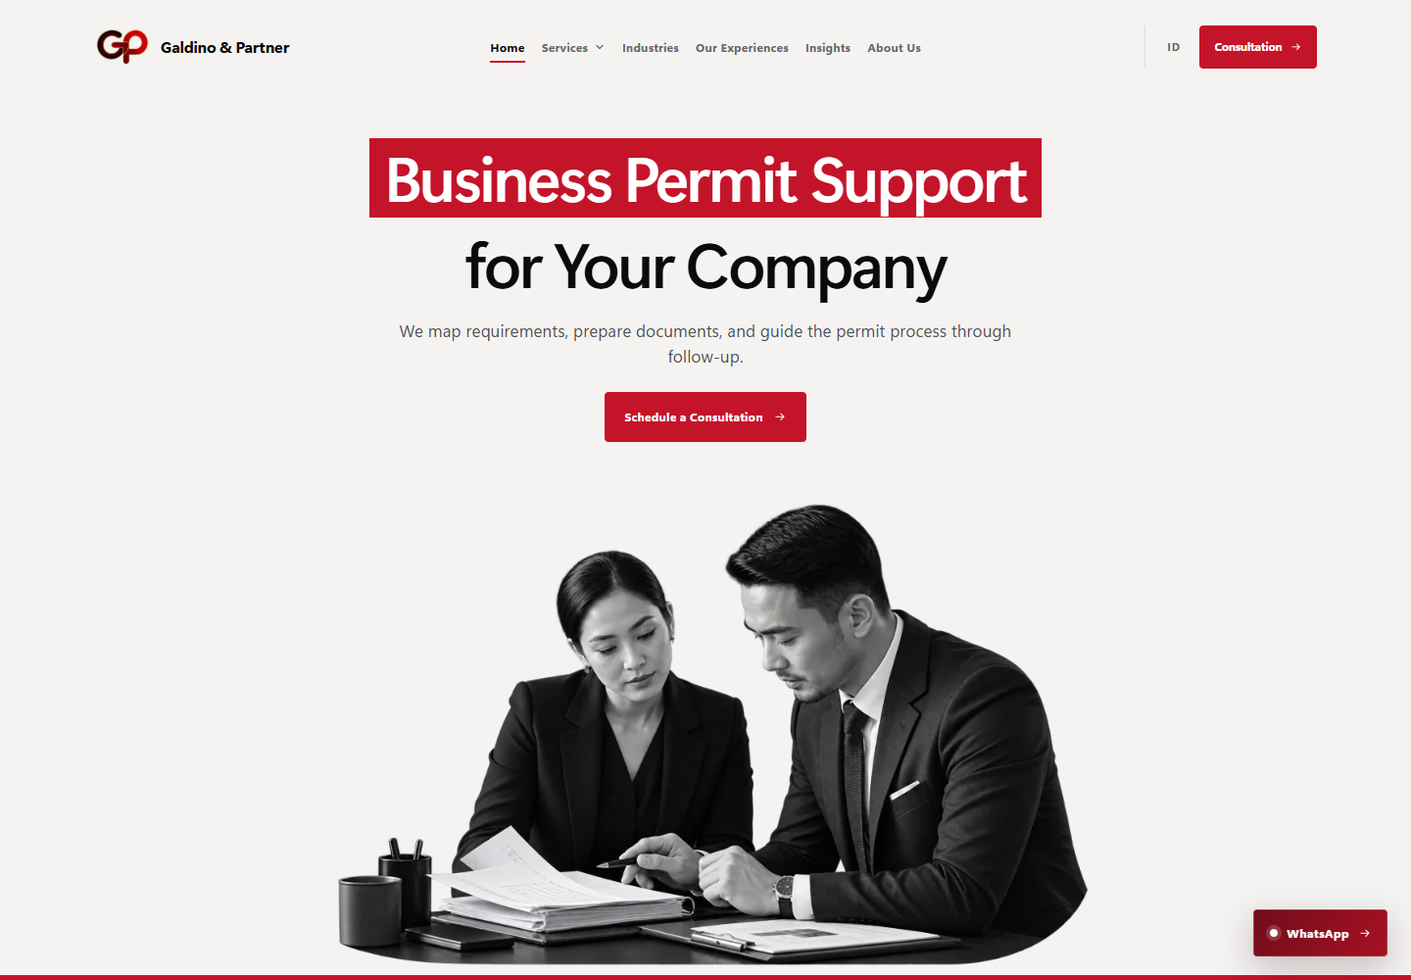
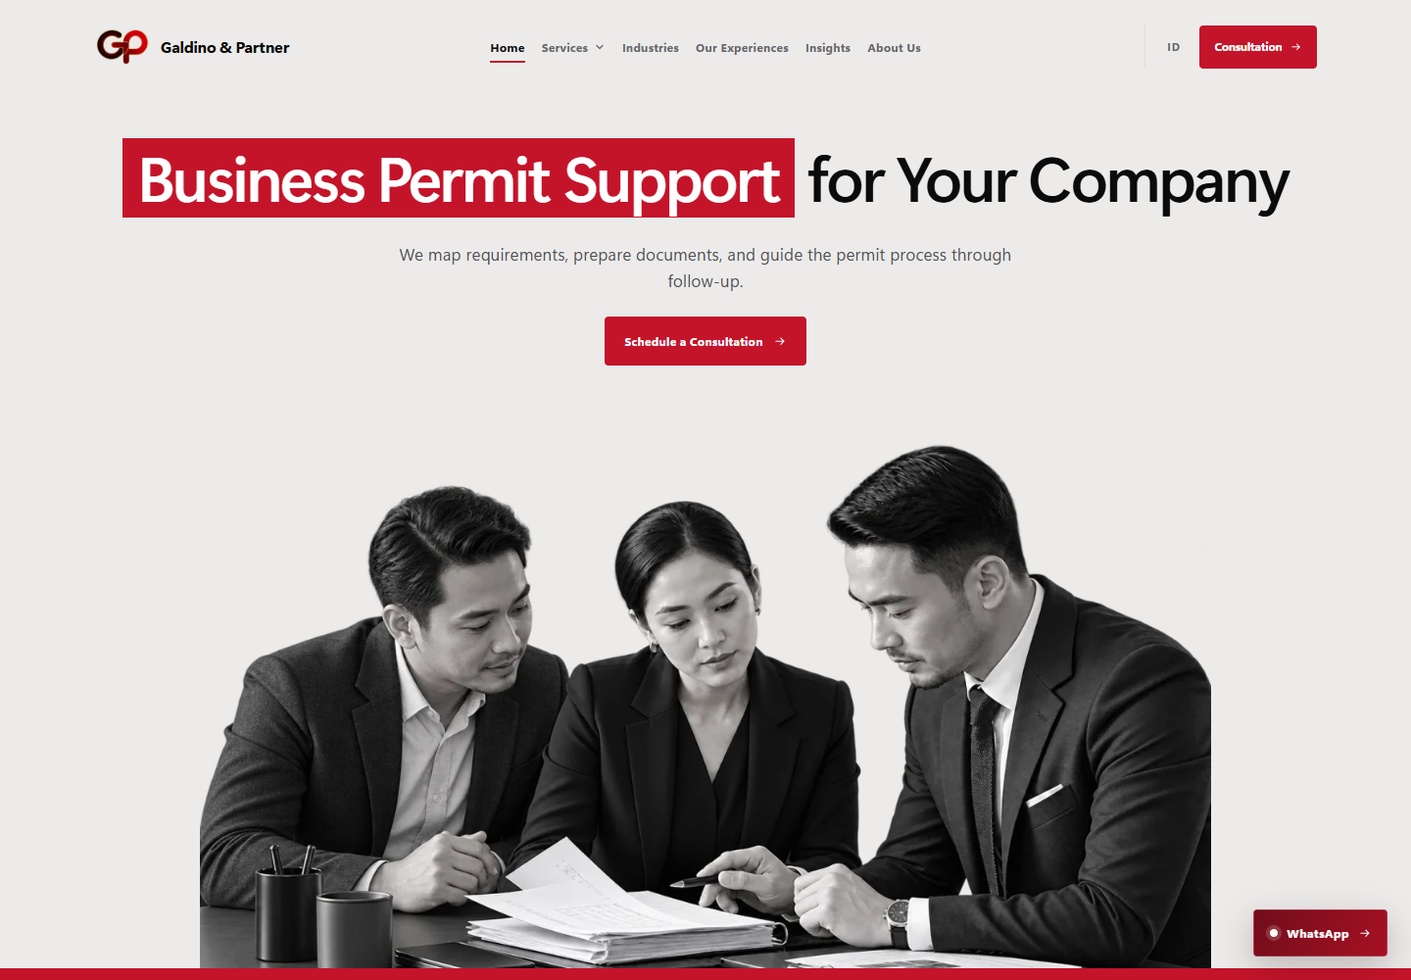
Refine Home hero with three-person consultation and unified surface

diff --git a/outputs/galdino_partner/website/scripts/browser/site.spec.ts b/outputs/galdino_partner/website/scripts/browser/site.spec.ts
@@ -184,7 +184,8 @@ test('brand headings, image framing, navigation and featured sections stay consi
   const hero=page.locator('.home-hero,.profile-hero,.image-hero');expect((await hero.boundingBox())!.height).toBeGreaterThanOrEqual(route==='profile/'?815:999);
   const heroImg=hero.locator('img').first();expect(await heroImg.evaluate(el=>getComputedStyle(el).objectFit)).toBe(route===''?'contain':'cover');const unfilled=await page.locator('.case-photo img,.related-cases img,.ed-figure img,.company-gallery__slide img,.work-collage img').evaluateAll(images=>images.filter(img=>getComputedStyle(img).objectFit!=='cover').length);expect(unfilled).toBe(0);
   const menu=await page.locator('.nav-menu').boundingBox();expect(Math.abs(menu!.x+menu!.width/2-720)).toBeLessThan(2);await expect(page.locator('.nav-cta')).toHaveCSS('border-top-left-radius','4px');
-  if(route===''){await expect(hero).toHaveCSS('background-color','rgb(244, 243, 241)');await expect(page.locator('.home-hero__copy')).toHaveCSS('text-align','center');await expect(page.locator('.home-hero__actions a')).toHaveCount(1);await expect(page.locator('.home-hero__actions a')).toHaveAttribute('href','/'+locale+'/contact/');await expect(heroImg).toHaveAttribute('src',/home-licensing-duo-cutout/);await expect(hero.locator('img')).toHaveCount(1);await expect(page.locator('.home-hero__highlight')).toHaveCSS('color','rgb(255, 255, 255)');await expect(page.locator('.home-hero__highlight')).toHaveCSS('background-color','rgb(196, 20, 42)');await expect(hero).toHaveCSS('border-bottom-color','rgb(196, 20, 42)');await expect(page.locator('.site-header')).toHaveCSS('position','fixed');await expect(page.locator('.site-header')).toHaveCSS('border-bottom-color','rgba(0, 0, 0, 0)');expect((await hero.boundingBox())!.y).toBe(0);await expect(page.locator('.client-register')).toHaveCount(0);await expect(page.locator('.site-header')).not.toHaveClass(/site-header--immersive/);}
+  if(route===''){await expect(hero).toHaveCSS('background-color','rgb(236, 235, 234)');await expect(page.locator('.home-hero__copy')).toHaveCSS('text-align','center');await expect(page.locator('.home-hero__actions a')).toHaveCount(1);await expect(page.locator('.home-hero__actions a')).toHaveAttribute('href','/'+locale+'/contact/');await expect(heroImg).toHaveAttribute('src',/home-licensing-trio-cutout/);await expect(hero.locator('img')).toHaveCount(1);await expect(page.locator('.home-hero__highlight')).toHaveCSS('color','rgb(255, 255, 255)');await expect(page.locator('.home-hero__highlight')).toHaveCSS('background-color','rgb(196, 20, 42)');await expect(hero).toHaveCSS('border-bottom-color','rgb(196, 20, 42)');await expect(page.locator('.site-header')).toHaveCSS('position','fixed');await expect(page.locator('.site-header')).toHaveCSS('border-bottom-color','rgba(0, 0, 0, 0)');expect((await hero.boundingBox())!.y).toBe(0);await expect(page.locator('.client-register')).toHaveCount(0);await expect(page.locator('.site-header')).not.toHaveClass(/site-header--immersive/);}
+  if(route===''){const start=await page.locator('.home-hero__highlight').boundingBox(),end=await page.locator('.home-hero__title-end').boundingBox(),frame=await page.locator('.home-hero__visual').boundingBox(),heroBox=await hero.boundingBox();expect(Math.abs(start!.y+start!.height/2-end!.y-end!.height/2)).toBeLessThan(4);expect(Math.abs(frame!.y+frame!.height-heroBox!.y-heroBox!.height+12)).toBeLessThan(1);await expect(page.locator('.site-header')).toHaveCSS('background-color','rgb(236, 235, 234)');await expect(page.locator('.company-section')).toHaveCSS('background-color','rgb(236, 235, 234)');}
   if(route===''){await hero.locator('img').evaluateAll(async(images:HTMLImageElement[])=>Promise.all(images.map(img=>img.decode())));await page.screenshot({path:testInfo.outputPath(locale+'-home-hero-1440.png'),animations:'disabled'});}
   if(!['','profile/'].includes(route)){await expect(heroImg).toHaveAttribute('src',/hero-/);expect(await heroImg.evaluate(el=>getComputedStyle(el).objectPosition)).toBe('50% 50%');}
   headings.push(await page.locator('h1').evaluate(el=>{const c=getComputedStyle(el);return [c.fontFamily,c.fontSize,c.fontWeight,c.letterSpacing,c.lineHeight].join('|')}));

diff --git a/outputs/galdino_partner/website/docs/QA_REPORT.md b/outputs/galdino_partner/website/docs/QA_REPORT.md
@@ -12,25 +12,25 @@ Home hero revision verified 2 October 2026; complete browser baseline verified 1
 - Complete browser baseline (1 October): 40 passed, 0 failed, 0 flaky. Responsive checks covered 17 representative routes at widths 320, 375, 430, 768, 900, 1024, 1280, 1440 and 1920 pixels (153 route/viewport checks), without horizontal overflow or uncaught page errors.
 - Axe scanned 13 representative pages and reported no WCAG 2 A/AA or 2.1 A/AA violations.
 - Browser checks cover mobile navigation and mega menu, bilingual navigation, the hidden Services search, service links and images, experience filters, contact form states, consent, analytics gating, noindex, redirects, and selected desktop/mobile hero assets.
-- Current Home regression review (2 October): 10 passed, 0 failed. It covers 17 representative routes at 320/375/430/768/1024/1440px, Home accessibility, mobile/language navigation, mega-menu keyboard/outside-click behavior and shared brand typography. Hero screenshots cover both languages at 1440px and 375px. Astro check, 20 unit tests, production build and validation passed again.
+- Current Home regression review (2 October): 10 passed, 0 failed. It covers 17 representative routes at 320/375/430/768/1024/1440px, Home accessibility, mobile/language navigation, mega-menu keyboard/outside-click behavior and shared brand typography. Hero screenshots cover both languages at 1440px and 375px. Astro check, 20 unit tests, production build and validation passed again. After adding the 800px image variant, these checks and the shared-brand browser test passed once more; the four final-build Home screenshots were refreshed.
 - Contact form tests use a local in-memory SMTP sink and do not send real email.
 
-The complete browser baseline is in reports/browser-summary.json; the current focused Home review is in reports/home-duo-review.json. Validated route totals are in reports/validation.json. Current 375px/1440px screenshots are in reports/screenshots/.
+The complete browser baseline is in reports/browser-summary.json; the current focused Home review is in reports/home-trio-review.json. Validated route totals are in reports/validation.json. Current 375px/1440px screenshots are in reports/screenshots/.
 
 ## Lighthouse
 
-Current run on 2 October 2026: Lighthouse 13.5.0, default mobile simulation, consent banner present. These scores are a single local run and can vary with system load.
+Current run on 2 October 2026: Lighthouse 13.5.0, default mobile simulation, consent banner present. Home was audited again after adding the 800px responsive image variant; Services and Contact use the same-session audit. Scores can vary with system load.
 
 | Page | Performance | Accessibility | Best practices | SEO | LCP | CLS | TBT |
 | --- | ---: | ---: | ---: | ---: | ---: | ---: | ---: |
-| Home | 74 | 100 | 100 | 69 | 3.91 s | 0 | 263.5 ms |
-| Services | 91 | 100 | 100 | 69 | 2.75 s | 0 | 17.5 ms |
-| Contact | 95 | 100 | 100 | 66 | 2.39 s | 0 | 84.0 ms |
+| Home | 83 | 100 | 100 | 69 | 3.37 s | 0 | 61.0 ms |
+| Services | 94 | 100 | 100 | 69 | 2.55 s | 0 | 25.0 ms |
+| Contact | 96 | 100 | 100 | 66 | 2.27 s | 0 | 27.0 ms |
 
-Home remains below the project's 90-point performance target in this local run. Its extracted hero image is eager, high priority and discoverable in the initial document; the diagnostic identifies remaining render delay and main-thread style/layout work. There is no layout shift. Broader page performance work is not included in this focused banner revision. See reports/performance.json for diagnostics. Crawling remains blocked and pages use noindex,nofollow, which reduces SEO scores. Do not enable indexing to change those scores.
+Home scores 83 and remains below the project's 90-point performance target in the final local run. An initial run scored 54 with 3338.5ms TBT; the final run measured 61ms TBT and 3.37s LCP. This variance does not establish that the image change caused the entire score increase. The hero is eager, high priority and discoverable in the initial document; the final audit no longer fails the image-delivery insight, while remaining style/layout work and rendering delay require broader performance work. There is no layout shift. Broader page performance work is not included in this focused banner revision. See reports/performance.json for diagnostics. Crawling remains blocked and pages use noindex,nofollow, which reduces SEO scores. Do not enable indexing to change those scores.
 
 ## Visual review and launch
 
-Home now uses a light brand-paper hero with centered existing copy, a red title box with white text, one consultation CTA and the original two-person working scene extracted as a monochrome transparent foreground. A full-width red rule closes the hero; the former client-logo row remains omitted. About Us retains its original hero layout. Desktop navbars balance logo left, links centered and language/consultation actions right; mobile menu behavior is retained. The fixed light Home navbar shares the hero surface without a border. All button CTAs share a 4px corner radius. Services, Industries, Our Experiences and Insight retain distinct wide hero photographs. The five supplied mockup photographs are cleaned of embedded UI and used on their matching main pages, including Our Experiences on mobile. Contact has no banner and uses context left, form right. All photographs are centered and fill their fixed frames; logos retain their intrinsic proportions. Services restore smaller centered cover photos with red left/bottom accents, without numbers or captions; Home case photography restores cover framing. Industry cards use centered cover framing and red accents. Other main index heroes keep their dash/tag, benefit headline, lead and consultation button; breadcrumb strips are removed. Category hubs use two complete cards per row with a short description and provisional price and specific dark process maps with initial-record guidance. FAQ disclosure and interactive links have minimal motion with reduced-motion support. Contact restores six next-step explanations in the left column and keeps the main navbar above the inquiry section; the navbar has no separate Contact item. Home's dark section presents “Why Galdino & Partner,” and Industries uses the same dark background for its regulatory map. The old How We Work URLs redirect to the updated Home section. Category, service and industry detail heroes have white backgrounds, dark copy left, bordered photography right and a section CTA. Sector detail pages remove cases, insights and the duplicate sequence section. About Us retains its restored story and related cases, removes the company identity register, and uses a smaller founder note, four working principles and eight monochrome photographs in an overlapping CSS collage with black negative space and translucent red accents; mobile uses its own taller composition. Individual professional profiles have no banner, start closer to the navbar, and omit related services/insights. Specific services show dashed timing/fee labels immediately after the context explanation, with the fee-exclusions note inside the same section. Content lists show dot bullets. Articles follow the Kultivate editorial structure without reading durations.
+Home now uses the following company section's #ecebea gray-cream surface with centered existing copy, a red title box with white text, one consultation CTA and a monochrome transparent scene with three consultation participants. The headline is one line on desktop and two on mobile. A full-width red rule crops the lower table directly, preserving faces and hands; the former client-logo row remains omitted. About Us retains its original hero layout. Desktop navbars balance logo left, links centered and language/consultation actions right; mobile menu behavior is retained. The fixed light Home navbar shares the same #ecebea surface without a border. All button CTAs share a 4px corner radius. Services, Industries, Our Experiences and Insight retain distinct wide hero photographs. The five supplied mockup photographs are cleaned of embedded UI and used on their matching main pages, including Our Experiences on mobile. Contact has no banner and uses context left, form right. All photographs are centered and fill their fixed frames; logos retain their intrinsic proportions. Services restore smaller centered cover photos with red left/bottom accents, without numbers or captions; Home case photography restores cover framing. Industry cards use centered cover framing and red accents. Other main index heroes keep their dash/tag, benefit headline, lead and consultation button; breadcrumb strips are removed. Category hubs use two complete cards per row with a short description and provisional price and specific dark process maps with initial-record guidance. FAQ disclosure and interactive links have minimal motion with reduced-motion support. Contact restores six next-step explanations in the left column and keeps the main navbar above the inquiry section; the navbar has no separate Contact item. Home's dark section presents “Why Galdino & Partner,” and Industries uses the same dark background for its regulatory map. The old How We Work URLs redirect to the updated Home section. Category, service and industry detail heroes have white backgrounds, dark copy left, bordered photography right and a section CTA. Sector detail pages remove cases, insights and the duplicate sequence section. About Us retains its restored story and related cases, removes the company identity register, and uses a smaller founder note, four working principles and eight monochrome photographs in an overlapping CSS collage with black negative space and translucent red accents; mobile uses its own taller composition. Individual professional profiles have no banner, start closer to the navbar, and omit related services/insights. Specific services show dashed timing/fee labels immediately after the context explanation, with the fee-exclusions note inside the same section. Content lists show dot bullets. Articles follow the Kultivate editorial structure without reading durations.
 
 Hostinger access and a GTM ID are not yet available, as confirmed by the user. Production hosting, real SMTP receipt, live analytics and Search Console checks remain unverified. Prices and content remain provisional; indexing stays disabled. Broader unused-file cleanup is listed in docs/CLEANUP_REVIEW.md and was not included in deleting the specifically requested How We Work page.

diff --git a/outputs/galdino_partner/website/docs/REVISION_2026-10-02-HOME-TRIO.md b/outputs/galdino_partner/website/docs/REVISION_2026-10-02-HOME-TRIO.md
@@ -1,0 +1,34 @@
+# Home consultation trio revision - 2 October 2026
+
+The user confirmed that a third consultation participant should be integrated into the existing two-person working scene. The existing bilingual headline stays on one line on desktop; mobile may use two lines. The red box and white text remain on the headline's first phrase. The hero and fixed Home navbar use the following company section's gray-cream surface, #ecebea. The full-width 12px red rule cuts the lower tabletop directly; all faces and hands remain visible.
+
+## Design decisions
+
+Continues the scoped design-taste-frontend and impeccable preserve-mode revision: business licensing for business owners, calm editorial photography and existing Galdino typography. Dials remain DESIGN_VARIANCE 4, MOTION_INTENSITY 2, VISUAL_DENSITY 3. No new dependencies or animation system.
+
+The supplied reference informs centered copy above a group photograph and a continuous lower rule. The existing website's headline, lead, consultation CTA, logo, navigation, rounded buttons and other sections are retained. A slightly wider photographic foreground lets three participants share the same documents. A clipped figure and small downward image translation crop only the bottom table at the red rule. Tablet copy wraps naturally. The original duo asset remains available.
+
+## Image provenance
+
+Mode: built-in imagegen edit, compositing with identity preservation.
+Edit target: src/assets/home-licensing-duo-cutout.webp.
+Project asset: src/assets/home-licensing-trio-cutout.webp.
+Absolute saved path: C:/Users/Joshua/OneDrive/Documents/Law/outputs/galdino_partner/website/src/assets/home-licensing-trio-cutout.webp.
+Generated source: C:/Users/Joshua/.codex/generated_images/01a0e792-9517-75e3-815d-bf814cc4d01b/exec-df3c47af-2c93-45e7-b1c7-d6c700f95271.png.
+
+The 1672x941 PNG has real alpha, transparent top corners and approximately 27.8% fully transparent pixels. The tabletop intentionally reaches the bottom edge. Native WebP encoding preserves alpha at quality 100, with image quality 90; no raster resizing or cropping is applied. The website controls the bottom crop in CSS. Astro generates responsive variants including 800px to avoid jumping from 640px directly to 960px on mobile displays.
+
+Final prompt:
+
+Use case: compositing / identity-preserve.
+Asset type: transparent editorial photographic cutout for the Galdino & Partner Home hero.
+Input image 1 is the edit target: the current grayscale woman and male consultant reviewing permit documents together.
+Primary request: add exactly one adult Indonesian business owner on the left, seated and leaning slightly toward their shared documents, so all THREE people are naturally collaborating in one consultation. The added participant wears a dark business-casual blazer and light shirt, listens attentively and looks at the paperwork, not the camera.
+Preserve the original woman and male consultant's identities, faces, expressions, clothing, poses, hands, pen, and shared paperwork as closely as possible. Keep photographic realism and consistent light, perspective, and scale.
+Composition: wide horizontal approximately 16:9. All three heads and hands fully visible, shoulder silhouettes cleanly separated from the background. The group and shared desk occupy nearly the full width with only small transparent side margins. The lower tabletop/documents extend to the straight bottom canvas edge so the website can crop the bottom desk flush against a red divider; do not create an oval or feathered floating lower edge. Keep all hands safely above this bottom crop.
+Color: true monochrome black and white, natural skin and fabric textures, quiet professional mood.
+Background: genuinely transparent alpha around all subjects and desk; remove office, backdrop, haze, ambient room shadows and any opaque background mat. No text, logos, buttons, website UI, decorative red line, watermark, extra people or duplicated body parts.
+
+## Verification
+
+Astro: 129 files, zero errors/warnings/hints. Twenty unit tests, production build and 167-page validation passed. Ten focused browser tests passed across six viewport widths, Home accessibility and navigation. The shared-brand test passed again after the final responsive-image change. Desktop/mobile screenshots in both languages confirm an inline desktop heading, two mobile lines, shared background, intact faces/hands and the crop at the rule. Final local Home Lighthouse: performance 83, accessibility 100, best practices 100, SEO 69 (indexing stays blocked), LCP 3.37s, CLS 0, TBT 61ms. Performance remains below target; see QA_REPORT.md for the initial-run variance and practical limits.

diff --git a/outputs/galdino_partner/website/docs/PAGE_SPECIFICATIONS.md b/outputs/galdino_partner/website/docs/PAGE_SPECIFICATIONS.md
@@ -1,8 +1,8 @@
 # Page specifications
 
-See SITE_MAP.md for every URL, REVISION_2026-10-01-RESTORATION.md for restoration decisions, and REVISION_2026-10-01-HOME-HERO.md for the navbar foundation, and REVISION_2026-10-02-HOME-DUO.md for the latest Home hero decisions.
+See SITE_MAP.md for every URL, REVISION_2026-10-01-RESTORATION.md for restoration decisions, and REVISION_2026-10-01-HOME-HERO.md for the navbar foundation, and REVISION_2026-10-02-HOME-TRIO.md for the latest Home hero decisions.
 
-Home: centered existing headline and consultation CTA on brand paper, with the original two-person consultation scene extracted into a monochrome transparent foreground. The title begins in a red box with white text; a full-width red rule closes the hero. The light fixed Home navbar shares the hero surface without a border. No client-logo row appears below the hero. All desktop navbars place the logo left, links in the center and language/consultation actions right; mobile retains the accessible menu. Button CTAs share a 4px corner radius. The service rail links to six categories and working case/article destinations. About Us retains its existing full-image hero. About Us omits the company identity register, has a compact founder note and an eight-photo monochrome collage with overlapping photographs, black negative space, red accents and a separate mobile composition. Individual profiles start closer to the navbar.
+Home: centered existing headline and consultation CTA on the same gray-cream surface as the following company section. The monochrome transparent consultation scene has three participants. Desktop keeps the headline on one line; mobile may use two. The title begins in a red box with white text; a full-width red rule cuts the bottom table with faces and hands preserved. The light fixed Home navbar shares the hero surface without a border. No client-logo row appears below the hero. All desktop navbars place the logo left, links in the center and language/consultation actions right; mobile retains the accessible menu. Button CTAs share a 4px corner radius. The service rail links to six categories and working case/article destinations. About Us retains its existing full-image hero. About Us omits the company identity register, has a compact founder note and an eight-photo monochrome collage with overlapping photographs, black negative space, red accents and a separate mobile composition. Individual profiles start closer to the navbar.
 
 Services: six visible category sections with links to all 38 services with service search temporarily hidden and small photographs with red left/bottom accents and no numbering or captions. Six dedicated hubs include a combined context section, a complete two-column service directory with descriptions and provisional fee estimates, category-specific dark process maps with initial-document guidance, and FAQ. Hubs omit related cases and insights. The environmental hub has four preserved group anchors, with short category/service URLs. Detail pages place timing and fee estimates with their exclusions after the context explanation, then show scope/deliverables, documents, process, FAQ and connected content.
 

diff --git a/outputs/galdino_partner/website/docs/DESIGN_SYSTEM.md b/outputs/galdino_partner/website/docs/DESIGN_SYSTEM.md
@@ -12,7 +12,7 @@ Avoid glassmorphism, glow, decorative animation, excessive gradients, generic ic
 
 The approved transparent red-black-gold mark is stored at `public/assets/gp-logo-brand.png` and is used across Header, Footer, branded visuals, and organization schema. The mark is rendered without a background plate so its transparent edge remains visible. A restrained image-only drop shadow may be used on dark surfaces; never add a white or off-white rectangle behind the logo.
 
-The current Home hero uses `src/assets/home-licensing-duo-cutout.webp`, a monochrome transparent extraction of the two consultants and their permit documents from `src/assets/home-licensing-hero.webp`. The original is retained. Centered copy sits above the scene, with a red-and-white title highlight and a full-width red rule below; see REVISION_2026-10-02-HOME-DUO.md. The Home experience grid uses `experience-business-licensing.png`, `experience-compliance-review.png`, and `experience-investment-project.png` as replaceable, context-specific placeholders. Profile uses `profile-company-hero-centered.webp` as a generated, replaceable red-black team banner with a centered focal crop. The team directory uses three generated, replaceable portrait assets: `team-kelvin-anata-lian.webp`, `team-maria-indah-putri.webp`, and `team-michael-alvaro.webp`. Replace all concept imagery with approved project and team photography before launch claims are finalized.
+The current Home hero uses `src/assets/home-licensing-trio-cutout.webp`, a monochrome transparent consultation scene with three participants derived from the previous duo foreground. The original is retained. Centered copy sits above the scene, with a red-and-white title highlight on one desktop line and a full-width red rule cutting the bottom table. Home and its fixed navbar use the following company section's #ecebea surface; see REVISION_2026-10-02-HOME-TRIO.md. The Home experience grid uses `experience-business-licensing.png`, `experience-compliance-review.png`, and `experience-investment-project.png` as replaceable, context-specific placeholders. Profile uses `profile-company-hero-centered.webp` as a generated, replaceable red-black team banner with a centered focal crop. The team directory uses three generated, replaceable portrait assets: `team-kelvin-anata-lian.webp`, `team-maria-indah-putri.webp`, and `team-michael-alvaro.webp`. Replace all concept imagery with approved project and team photography before launch claims are finalized.
 
 ## Red brand tokens
 
